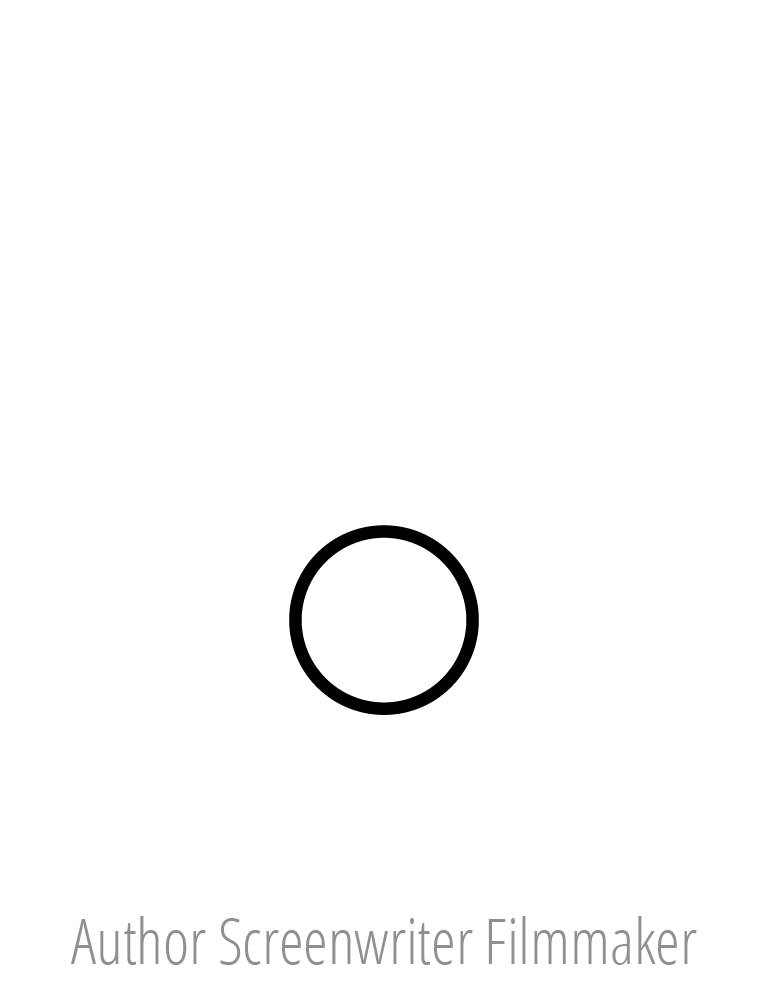
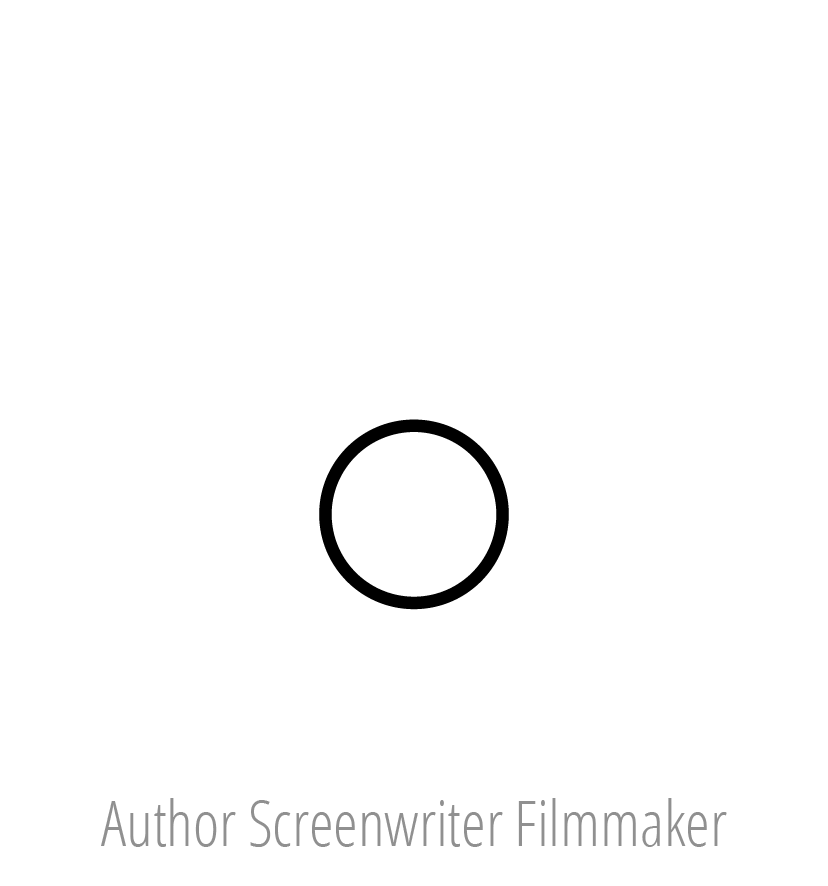
03/14 09:45

Changed region(s): [[0.0938, 0.8837, 0.9062, 0.9752], [0.375, 0.4571, 0.625, 0.7314]]

diff --git a/index.html b/index.html
@@ -136,7 +136,7 @@ body, html {
 
           <div class="swiper-slide">-->
             <div class="minisection">
-              <img src="//zilem.studio/images/ZS_Landing.png" width='260'>
+              <img src="//zilem.studio/images/ZS_Landing.png" width='280'>
               <!--<img src="//zilem.studio/images/RN_Tagline.png" width='240' height='160'>-->
               <!--<h1 style="margin-bottom:10px">
                   <font color="#FFFFFF">Outsiders<br>
